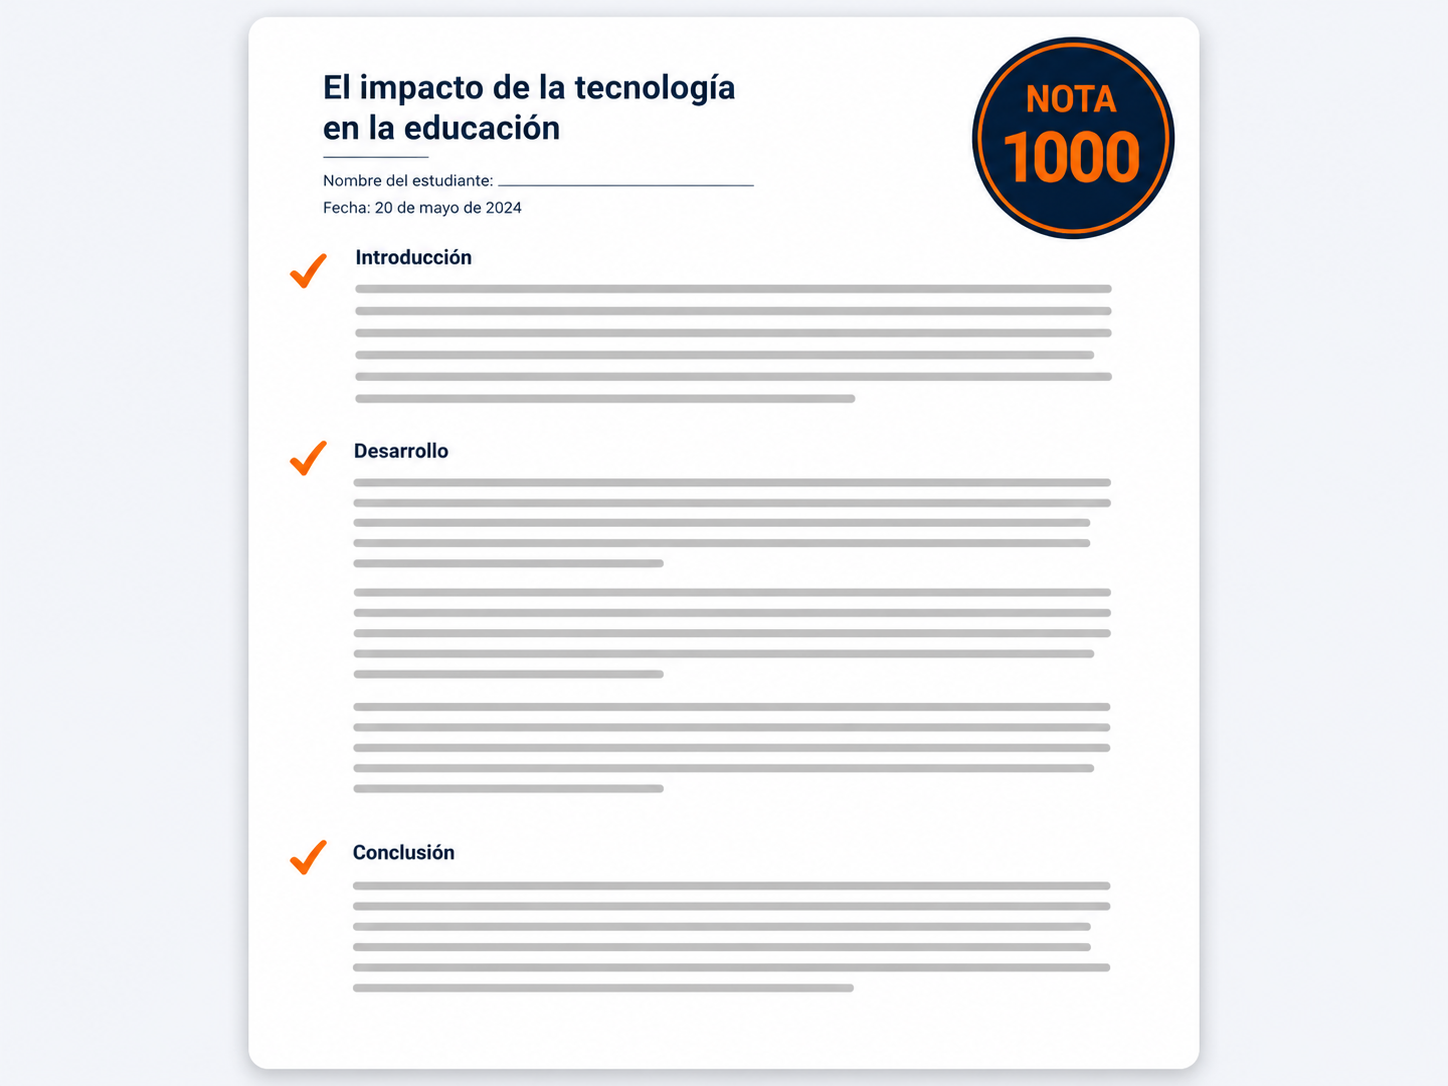
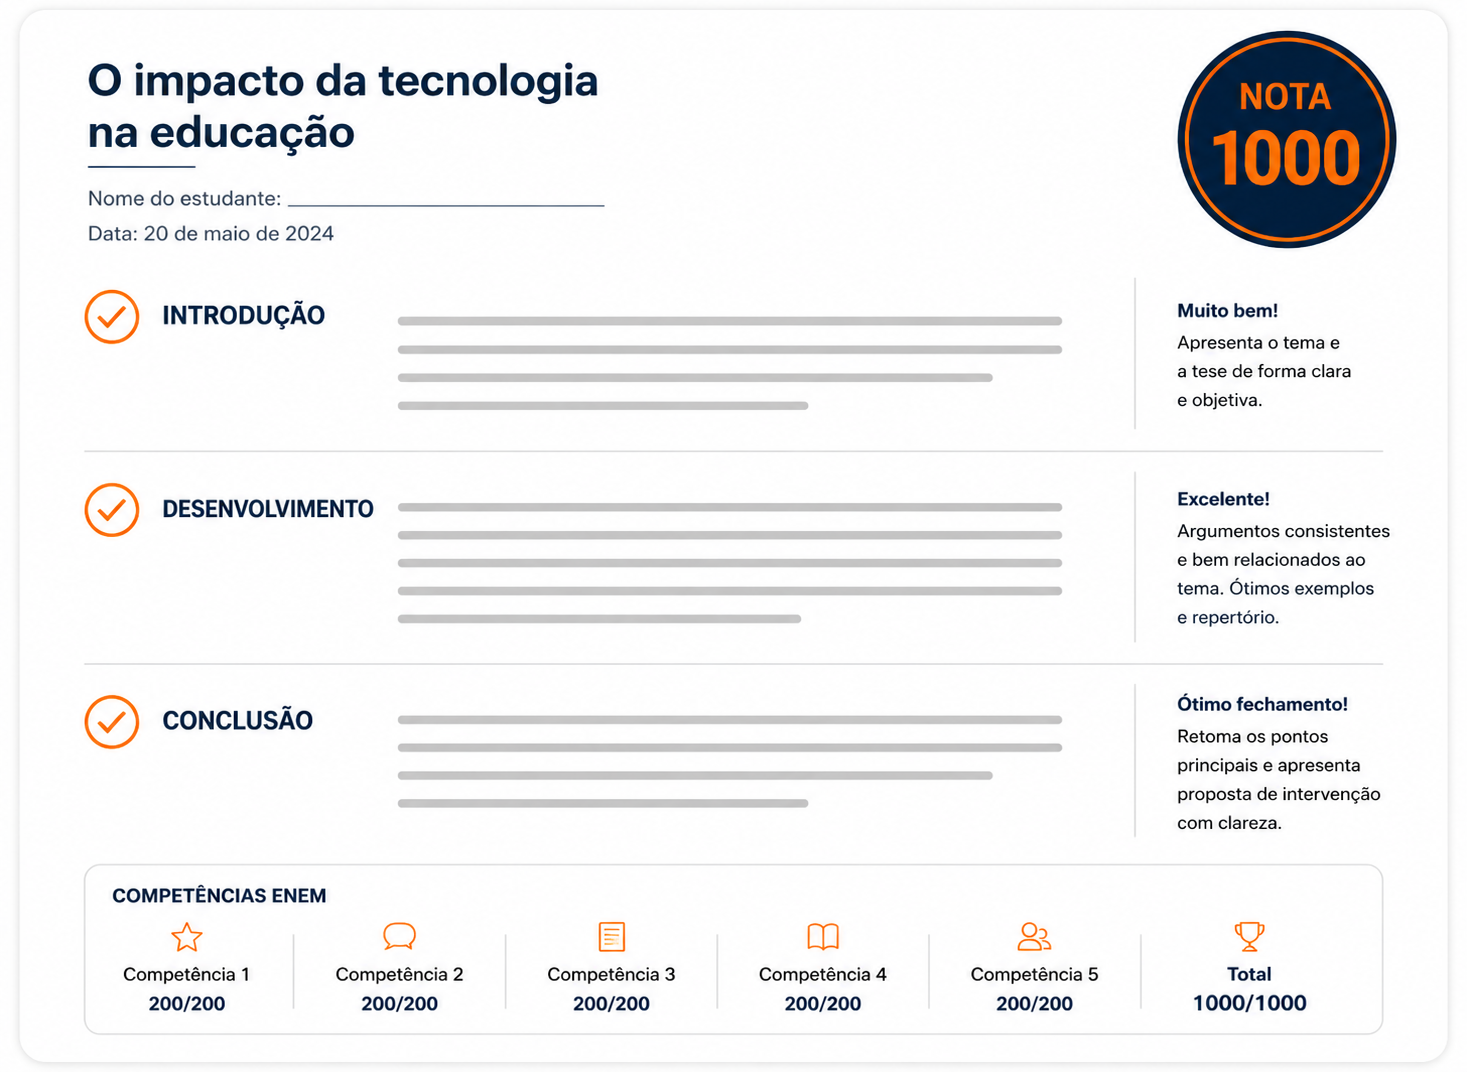
Corrige proporcao das imagens (4:3 real, 3:4 para feat-humanas que e vertical) e atualiza feat-modelos.png

Changed region(s): [[0.0622, 0.0308, 0.9634, 1.0]]

diff --git a/index.html b/index.html
@@ -90,42 +90,42 @@
     </div>
     <div class="grid-3" style="display:grid;grid-template-columns:repeat(3,1fr);gap:28px;">
       <div style="background:#fff;border-radius:16px;overflow:hidden;box-shadow:0 1px 2px rgba(13,27,42,0.04),0 12px 32px rgba(13,27,42,0.08);border:1px solid rgba(13,27,42,0.05);">
-        <img src="feat-correcao.png" alt="Correção de redação por IA" style="width:100%;aspect-ratio:16/9;object-fit:cover;background:#EFEAE1;">
+        <img src="feat-correcao.png" alt="Correção de redação por IA" style="width:100%;aspect-ratio:4/3;object-fit:cover;background:#EFEAE1;">
         <div style="padding:24px;">
           <h3 style="font-family:'Manrope',sans-serif;font-size:19px;font-weight:700;margin:0 0 10px;">Correção de Redação por IA</h3>
           <p style="font-size:15px;color:#4A5568;line-height:1.6;margin:0;">Envie sua redação e receba, em segundos, os erros apontados e sugestões por competência.</p>
         </div>
       </div>
       <div style="background:#fff;border-radius:16px;overflow:hidden;box-shadow:0 1px 2px rgba(13,27,42,0.04),0 12px 32px rgba(13,27,42,0.08);border:1px solid rgba(13,27,42,0.05);">
-        <img src="feat-repertorio.png" alt="Banco de repertórios" style="width:100%;aspect-ratio:16/9;object-fit:cover;background:#EFEAE1;">
+        <img src="feat-repertorio.png" alt="Banco de repertórios" style="width:100%;aspect-ratio:4/3;object-fit:cover;background:#EFEAE1;">
         <div style="padding:24px;">
           <h3 style="font-family:'Manrope',sans-serif;font-size:19px;font-weight:700;margin:0 0 10px;">Banco de Repertórios</h3>
           <p style="font-size:15px;color:#4A5568;line-height:1.6;margin:0;">Centenas de argumentos, citações e dados prontos, organizados por tema.</p>
         </div>
       </div>
       <div style="background:#fff;border-radius:16px;overflow:hidden;box-shadow:0 1px 2px rgba(13,27,42,0.04),0 12px 32px rgba(13,27,42,0.08);border:1px solid rgba(13,27,42,0.05);">
-        <img src="feat-modelos.png" alt="Modelos de redação nota 1000" style="width:100%;aspect-ratio:16/9;object-fit:cover;background:#EFEAE1;">
+        <img src="feat-modelos.png" alt="Modelos de redação nota 1000" style="width:100%;aspect-ratio:4/3;object-fit:cover;background:#EFEAE1;">
         <div style="padding:24px;">
           <h3 style="font-family:'Manrope',sans-serif;font-size:19px;font-weight:700;margin:0 0 10px;">Modelos Nota 1000</h3>
           <p style="font-size:15px;color:#4A5568;line-height:1.6;margin:0;">Dezenas de redações comentadas para você copiar a estrutura que aprova.</p>
         </div>
       </div>
       <div style="background:#fff;border-radius:16px;overflow:hidden;box-shadow:0 1px 2px rgba(13,27,42,0.04),0 12px 32px rgba(13,27,42,0.08);border:1px solid rgba(13,27,42,0.05);">
-        <img src="feat-humanas.png" alt="Questões de Humanas" style="width:100%;aspect-ratio:16/9;object-fit:cover;background:#EFEAE1;">
+        <img src="feat-humanas.png" alt="Questões de Humanas" style="width:100%;aspect-ratio:3/4;object-fit:cover;object-position:top;background:#EFEAE1;">
         <div style="padding:24px;">
           <h3 style="font-family:'Manrope',sans-serif;font-size:19px;font-weight:700;margin:0 0 10px;">Questões de Humanas</h3>
           <p style="font-size:15px;color:#4A5568;line-height:1.6;margin:0;">Banco de questões de História, Geografia, Filosofia e Sociologia com gabarito comentado.</p>
         </div>
       </div>
       <div style="background:#fff;border-radius:16px;overflow:hidden;box-shadow:0 1px 2px rgba(13,27,42,0.04),0 12px 32px rgba(13,27,42,0.08);border:1px solid rgba(13,27,42,0.05);">
-        <img src="feat-raiox.png" alt="Raio-x dos temas que mais caem" style="width:100%;aspect-ratio:16/9;object-fit:cover;background:#EFEAE1;">
+        <img src="feat-raiox.png" alt="Raio-x dos temas que mais caem" style="width:100%;aspect-ratio:4/3;object-fit:cover;background:#EFEAE1;">
         <div style="padding:24px;">
           <h3 style="font-family:'Manrope',sans-serif;font-size:19px;font-weight:700;margin:0 0 10px;">Temas Que Mais Caem</h3>
           <p style="font-size:15px;color:#4A5568;line-height:1.6;margin:0;">Raio-x dos temas de redação e assuntos de Humanas mais cobrados nos últimos 10 anos.</p>
         </div>
       </div>
       <div style="background:#fff;border-radius:16px;overflow:hidden;box-shadow:0 1px 2px rgba(13,27,42,0.04),0 12px 32px rgba(13,27,42,0.08);border:1px solid rgba(13,27,42,0.05);">
-        <img src="feat-cronograma.png" alt="Cronograma de estudos" style="width:100%;aspect-ratio:16/9;object-fit:cover;background:#EFEAE1;">
+        <img src="feat-cronograma.png" alt="Cronograma de estudos" style="width:100%;aspect-ratio:4/3;object-fit:cover;background:#EFEAE1;">
         <div style="padding:24px;">
           <h3 style="font-family:'Manrope',sans-serif;font-size:19px;font-weight:700;margin:0 0 10px;">Cronograma de Estudos</h3>
           <p style="font-size:15px;color:#4A5568;line-height:1.6;margin:0;">Plano guiado para organizar sua rotina sem perder tempo com o que não cai.</p>
